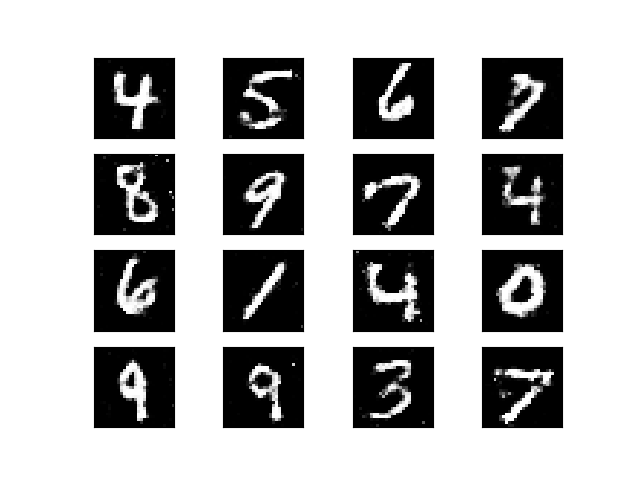
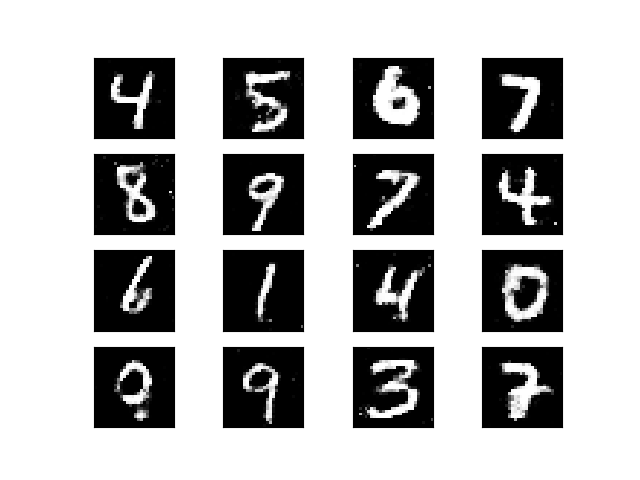
Commit acgans results

diff --git a/acgans/inference.py b/acgans/inference.py
@@ -148,8 +148,8 @@ def inference():
         num_test += 1
 
     for class_idx in range(0, param.num_class):
-        _y = tf.one_hot(indices=tf.multiply(tf.ones(shape=(param.batch_size), dtype=tf.float32) * class_idx),
-                        depth=param.num_class)
+        _indices = np.ones(param.batch_size, dtype=np.float) * class_idx
+        _y = tf.one_hot(indices=_indices, depth=param.num_class, dtype=tf.float32)
         _z = tf.random.uniform(shape=(param.batch_size, param.latent_dim), minval=-1.0, maxval=1.0,
                                dtype=tf.float32)
 
